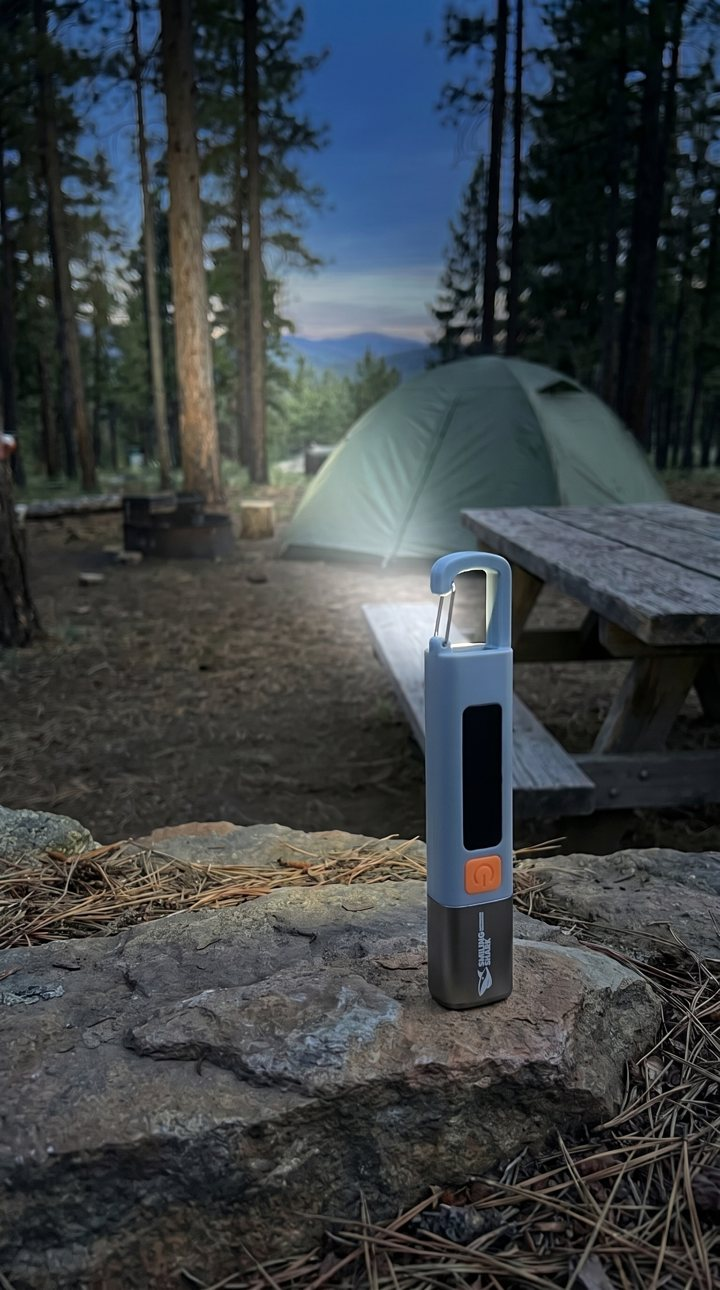
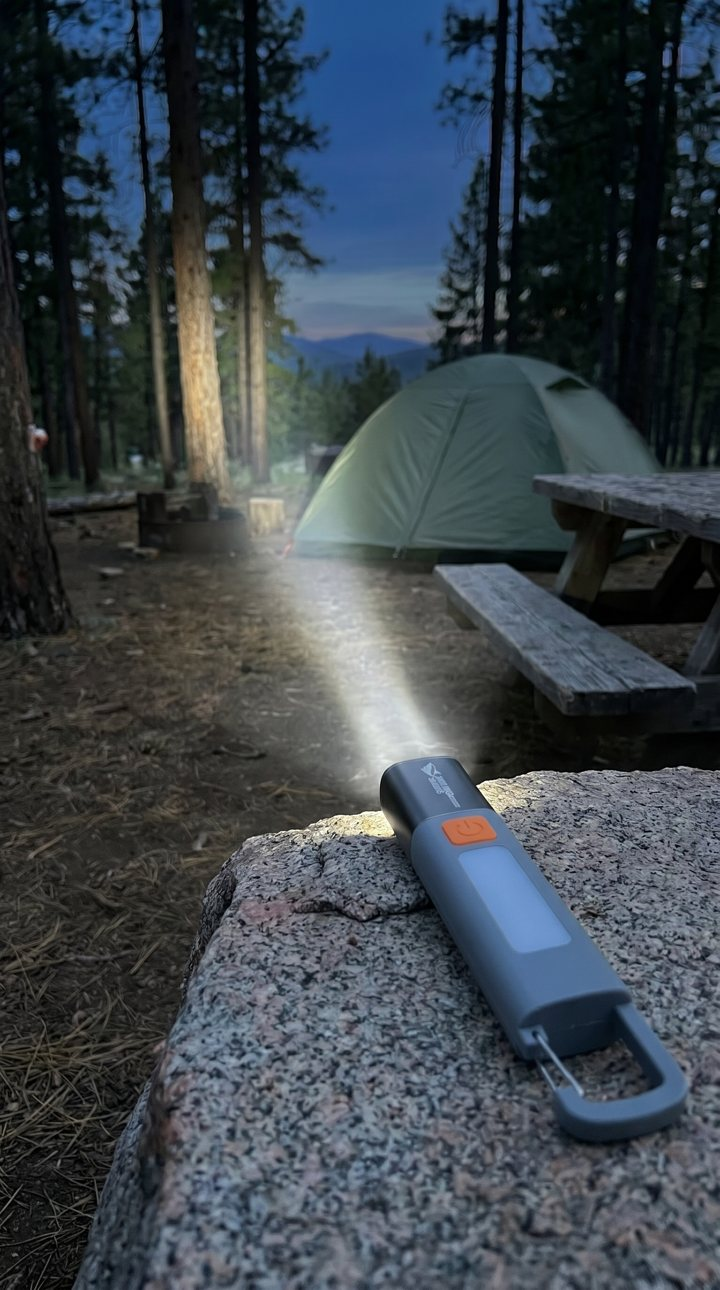
Flashlight V2: S5/S7 redos, Omni 500s logged, review page update
Claude-Session: https://claude.ai/code/session_01WGocwNSUCpRBfBPkQwQZUH

diff --git a/ugc/powerbank-flashlight-v2/review/storyboard.html b/ugc/powerbank-flashlight-v2/review/storyboard.html
@@ -54,9 +54,9 @@ figcaption{font:500 .72rem var(--mono);color:var(--muted);text-transform:upperca
   <h1>Power Bank Flashlight V2 · storyboard</h1>
   <p class="sub">Grace · your script word for word · 9 shots · about 25 s · one dusk campsite · built from your storyboard panels, with the real grey TINEKO from the reference sheet in every shot.</p>
 </header>
-<section class="round"><h2>Round 2 · the 9 stills (newest)</h2>
-<p class="lead">S1–S4 from your Gemini app, S5–S9 from Kie with your S1 and S2 as references. Dusk sky darker, the lights glow. Checked at 2x. Clips are on hold: Kie's Omni answered "500 Internal Error" on 4 tries (S4 and S3), so nothing was charged for clips.</p>
-<div class="grid9"><figure class="st"><img src="st/S1.jpg" alt="Still S1"><div class="h"><span class="n">S1</span><span class="tag ok">OK</span></div><p>Yours. Matches the real unit.</p></figure><figure class="st"><img src="st/S2.jpg" alt="Still S2"><div class="h"><span class="n">S2</span><span class="tag fix">free fix</span></div><p>Yours. Wood looks over-sharp; soft blur + crop the orange blob at the left edge (free).</p></figure><figure class="st"><img src="st/S3.jpg" alt="Still S3"><div class="h"><span class="n">S3</span><span class="tag ok">OK</span></div><p>Yours. Matches.</p></figure><figure class="st"><img src="st/S4.jpg" alt="Still S4"><div class="h"><span class="n">S4</span><span class="tag ok">OK</span></div><p>Yours. Part order, button, logo, rings all right.</p></figure><figure class="st"><img src="st/S5.jpg" alt="Still S5"><div class="h"><span class="n">S5</span><span class="tag redo">redo</span></div><p>Kie. Wrong: it stands on its lens end, so the lens is hidden and can't flicker. Redo $0.09, lens facing the camera.</p></figure><figure class="st"><img src="st/S6.jpg" alt="Still S6"><div class="h"><span class="n">S6</span><span class="tag fix">free fix</span></div><p>Kie. It drew a second lit strip on the side; painted out free (shown fixed).</p></figure><figure class="st"><img src="st/S7.jpg" alt="Still S7"><div class="h"><span class="n">S7</span><span class="tag redo">redo</span></div><p>Kie. Wrong product: a black round torch. Redo $0.09.</p></figure><figure class="st"><img src="st/S8.jpg" alt="Still S8"><div class="h"><span class="n">S8</span><span class="tag ok">OK</span></div><p>Kie. Clip on top, panel lit, button, logo, nails right.</p></figure><figure class="st"><img src="st/S9.jpg" alt="Still S9"><div class="h"><span class="n">S9</span><span class="tag ok">OK</span></div><p>Kie. Product right. Her blue band came out as a wristband instead of a ring: small, I'd let it go.</p></figure></div></section>
+<section class="round"><h2>Round 2 · the 9 stills (S5 + S7 redone)</h2>
+<p class="lead">S1–S4 from your Gemini app, S5–S9 from Kie with your S1 and S2 as references. Dusk sky darker, the lights glow. Checked at 2x. Clips are on hold: Kie's Omni answered "500 Internal Error" on all 7 tries (S4, S3, S8, even a bare 2-image request), each failing in about 13 s, so nothing was charged for clips.</p>
+<div class="grid9"><figure class="st"><img src="st/S1.jpg" alt="Still S1"><div class="h"><span class="n">S1</span><span class="tag ok">OK</span></div><p>Yours. Matches the real unit.</p></figure><figure class="st"><img src="st/S2.jpg" alt="Still S2"><div class="h"><span class="n">S2</span><span class="tag fix">free fix</span></div><p>Yours. Wood looks over-sharp; soft blur + crop the orange blob at the left edge (free).</p></figure><figure class="st"><img src="st/S3.jpg" alt="Still S3"><div class="h"><span class="n">S3</span><span class="tag ok">OK</span></div><p>Yours. Matches.</p></figure><figure class="st"><img src="st/S4.jpg" alt="Still S4"><div class="h"><span class="n">S4</span><span class="tag ok">OK</span></div><p>Yours. Part order, button, logo, rings all right.</p></figure><figure class="st"><img src="st/S5.jpg" alt="Still S5"><div class="h"><span class="n">S5</span><span class="tag ok">redo OK</span></div><p>Redo (Kie). Lies on the rock, lens lit, beam toward the camp, side panel off: the flicker can come from this lens. Small orange blob at the left edge: free patch.</p></figure><figure class="st"><img src="st/S6.jpg" alt="Still S6"><div class="h"><span class="n">S6</span><span class="tag fix">free fix</span></div><p>Kie. It drew a second lit strip on the side; painted out free (shown fixed).</p></figure><figure class="st"><img src="st/S7.jpg" alt="Still S7"><div class="h"><span class="n">S7</span><span class="tag redo">still wrong</span></div><p>Redo (Kie), still wrong: no carabiner clip, bronze caps, button above the panel, logo on the body. Your call: your Gemini app ($0) or one more Kie try ($0.09).</p></figure><figure class="st"><img src="st/S8.jpg" alt="Still S8"><div class="h"><span class="n">S8</span><span class="tag ok">OK</span></div><p>Kie. Clip on top, panel lit, button, logo, nails right.</p></figure><figure class="st"><img src="st/S9.jpg" alt="Still S9"><div class="h"><span class="n">S9</span><span class="tag ok">OK</span></div><p>Kie. Product right. Her blue band came out as a wristband instead of a ring: small, I'd let it go.</p></figure></div></section>
 
 <section class="rules">
   <h2>What changes from the guide images</h2>

diff --git a/ugc/powerbank-flashlight-v2/run.py b/ugc/powerbank-flashlight-v2/run.py
@@ -13,6 +13,14 @@ REF = {"sheet": G + "ref1_product_sheet.png", "shape": G + "ref2_true_shape.png"
        "hand": G + "ref4_grace_hand.jpg", "port": G + "ref5_port_closeup.png", "logo": G + "ref6_logo_closeup.png"}
 STILL_REFS = {"S5": ["sheet", "shape", "logo", "lens"], "S6": ["sheet", "shape", "logo"], "S7": ["sheet", "shape", "hand"],
               "S8": ["sheet", "shape", "logo", "hand"], "S9": ["sheet", "shape", "logo", "hand"]}
+# Redo fixes after the 2026-10-22 QC (Ralph: "Redo"): S5 stood on its lens end, S7 drew a black round torch
+FIX = {"S5": ("FIX: the flashlight lies on its back on the flat rock, propped at a slight angle, with the lens end (the tip of the dark "
+              "end cap) pointing toward the camera and a little to the side; the lens is clearly visible and lit bright white, the "
+              "light beam shining out past the camera toward the trees. The lens is never touching or hidden against the rock. "
+              "The carabiner clip is at the far end, away from the camera. Side panel OFF and dark."),
+       "S7": ("FIX: the flashlight in her hand is the light blue-grey square bar from images 1 and 2, never a black or round torch: "
+              "blue-grey body, frosted light panel, square orange button, dark grey end cap with SMILING SHARK, carabiner clip on the "
+              "other end, all visible as she lowers it into the pouch.")}
 HAND_SHOTS = {"S1", "S4", "S7", "S8", "S9"}
 # Omni image order must match the numbering in prompts/clip_Sx.txt: still, logo, [lens|port], sheet, [hand]
 CLIP_EXTRA = {"S2": ["port"], "S4": ["lens"], "S5": ["lens"]}
@@ -29,14 +37,24 @@ def still(sid):
     text = re.sub(r"^I am uploading \d+ reference images\. (.*?)\.\n", lambda m: f"I am uploading {len(refs)} reference images. {m.group(1)}; " + "; ".join(extra) + ".\n", text, count=1)
     text += ("\nLIGHT: the scene is dim like the approved campsite photo, the dusk sky darkened closer to night, so the flashlight's own "
              "light glows clearly and is the brightest thing in the photo, while the campsite stays visible.\n")
+    if sid in FIX: text += "\n" + FIX[sid] + "\n"
     Path("prompts").mkdir(exist_ok=True); Path(f"prompts/still_{sid}.txt").write_text(text)
     url = kie.run_task({"model": "nano-banana-pro", "input": {"prompt": text, "image_input": [kie.upload(p) for p in refs],
                         "aspect_ratio": "9:16", "resolution": "2K"}}, label=f"still {sid}")
+    if Path(f"stills/{sid}.png").exists():  # keep the earlier take
+        n = 1
+        while Path(f"stills/{sid}_r{n}.png").exists(): n += 1
+        Path(f"stills/{sid}.png").rename(f"stills/{sid}_r{n}.png")
     if url: kie.fetch(url, f"stills/{sid}.png"); print("still", sid, "ok", flush=True)
 
 
 def small(path):  # Kie Omni answered 500 twice on the full-size PNG inputs (8 MB total); youtheory's working takes used ~1 MB files
-    return f"omni_in/{Path(path).stem}.jpg"
+    out = Path(f"omni_in/{Path(path).stem}.jpg")
+    if not out.exists() or out.stat().st_mtime < Path(path).stat().st_mtime:
+        from PIL import Image
+        out.parent.mkdir(exist_ok=True); im = Image.open(path).convert("RGB")
+        im.thumbnail((1080, 1920) if "stills" in path else (1400, 1400), Image.LANCZOS); im.save(out, quality=90)
+    return str(out)
 
 
 def omni(sid, dry=False):

diff --git a/ugc/powerbank-flashlight-v2/README.md b/ugc/powerbank-flashlight-v2/README.md
@@ -10,4 +10,4 @@ Size from Grace's box (research/size.md: 29.5 x 29.5 x 157 mm with clip, 90 g, l
 
 Status 2026-10-22 (end of session 1): Ralph sends S1-S4 stills from Gemini; S5-S9 stills + all clips go on Kie after BOOK.md OK. Handoff: handoff/NEXT_SESSION_flashlight-v2.md. Gates 5/10. Spent $0.
 
-Status 2026-10-22 (session 2): BOOK APPROVED $3.69. Stills S5-S9 made on Kie ($0.45, 2K): S8 S9 OK, S6 free-fixed (extra side strip), S5 + S7 need redos ($0.09 each, asked). VO done (Grace cloned, 22.1 s, echo 150 ms = pass). Omni on Kie: 4 tries all "500 Internal Error" (free), clips on hold, asked Ralph. Review: https://claude.ai/code/artifact/91654375-8c56-4a3f-9903-fc928826f4d8 . Spent $0.45.
+Status 2026-10-23 (session 2): BOOK APPROVED $3.69. Stills: S1-S4 Ralph, S5 redo OK, S6 free-fixed, S8 S9 OK, S7 redo still wrong (no clip, bronze caps): Ralph picks Gemini app or one more Kie try. VO done (22.1 s, echo 150). Omni on Kie: 7 tries all 500 in ~13 s (free), incl. a bare 2-image request: clips on hold, Ralph picks wait or Seedance. Spent $0.63.
